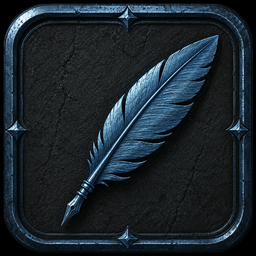
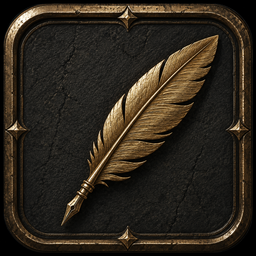
UI foundation: runtime factory gains optional R/B + nine-patch (validated)
The new custom UI needs bespoke textures and ornate scalable frames.
Bannerlord's official sprite path needs the Modding Kit to pre-compile a
.tpac (loose PNGs never render), so we build on CR's runtime sprite factory
instead (it assembles a Sprite from PNG bytes at load, no tooling). Spike
validated in game: a normal PNG renders true-colour, and a nine-patch frame
keeps crisp corners while its edges stretch over a tall panel.

- RuntimePortraitFactory: GetOrCreateCached/TryCreate take an optional
  correctRedBlue flag (the BGR-read swap is right for the JPG portraits but
  wrong for a normal PNG) and a NinePatch struct (fixed corner widths, so a
  frame stretches without distorting). Cache key includes both.
- CrRuntimeImageWidget: new CorrectRedBlue and NinePatch properties that
  thread through, rebuilding the sprite when any of path/flag/margins change.
- Quill: un-hacked. quill.png is now a NORMAL gold PNG and the widget sets
  CorrectRedBlue="false", replacing the pre-swapped-file workaround from
  6e26928 with the clean path.

This is the foundation the two-panel council/chat UI redesign builds on.

Changed region(s): [[0.0, 0.0, 1.0, 1.0], [0.2188, 0.125, 0.875, 0.875]]

diff --git a/CalradiaRemembers/Portraits/RuntimePortraitFactory.cs b/CalradiaRemembers/Portraits/RuntimePortraitFactory.cs
@@ -60,17 +60,49 @@ namespace CalradiaRemembers.Portraits
         }
 
         /// <summary>
-        ///   Cached load by path: builds a sprite once per file and reuses it, so N chat lines sharing one
-        ///   portrait hold ONE texture. A miss is cached as null so a missing file is not retried every line.
-        ///   The kept texture is intentionally not released (it stays available); a full feature would evict.
+        ///   The fixed-border widths of a nine-patch (nine-slice) sprite: the corners stay their native size
+        ///   while the edges and centre stretch, so a frame drawn far larger than its source keeps crisp
+        ///   corners. All-zero (the default) is an ordinary full-stretch sprite (the portrait case).
         /// </summary>
-        public static Sprite GetOrCreateCached(string fullPath)
+        public readonly struct NinePatch
+        {
+            public NinePatch(int left, int right, int top, int bottom)
+            {
+                Left = left;
+                Right = right;
+                Top = top;
+                Bottom = bottom;
+            }
+
+            public int Left { get; }
+            public int Right { get; }
+            public int Top { get; }
+            public int Bottom { get; }
+
+            public bool IsFlat => Left == 0 && Right == 0 && Top == 0 && Bottom == 0;
+
+            public override string ToString() => $"{Left},{Right},{Top},{Bottom}";
+        }
+
+        private static string KeyFor(string fullPath, bool correctRedBlue, NinePatch ninePatch)
+            => $"{fullPath}|{correctRedBlue}|{ninePatch}";
+
+        /// <summary>
+        ///   Cached load by path: builds a sprite once per (file, options) and reuses it, so N chat lines
+        ///   sharing one portrait hold ONE texture. A miss is cached as null so a missing file is not retried
+        ///   every line. <paramref name="correctRedBlue" /> applies the engine's BGR-read correction (needed
+        ///   for the JPG player portraits, but WRONG for a normal PNG that is already in the right order, so a
+        ///   UI sprite passes false). <paramref name="ninePatch" /> makes the sprite a stretchable frame.
+        /// </summary>
+        public static Sprite GetOrCreateCached(string fullPath, bool correctRedBlue = true, NinePatch ninePatch = default)
         {
             if (string.IsNullOrEmpty(fullPath)) return null;
-            if (Cache.TryGetValue(fullPath, out var cached)) return cached.sprite;
 
-            Sprite sprite = TryCreate(fullPath, out Sprite s, out EngTex tex, out _) ? s : null;
-            Cache[fullPath] = (sprite, tex?.Width ?? 0, tex?.Height ?? 0);
+            string key = KeyFor(fullPath, correctRedBlue, ninePatch);
+            if (Cache.TryGetValue(key, out var cached)) return cached.sprite;
+
+            Sprite sprite = TryCreate(fullPath, correctRedBlue, ninePatch, out Sprite s, out EngTex tex, out _) ? s : null;
+            Cache[key] = (sprite, tex?.Width ?? 0, tex?.Height ?? 0);
 
             return sprite;
         }
@@ -82,7 +114,7 @@ namespace CalradiaRemembers.Portraits
             height = 0;
             if (GetOrCreateCached(fullPath) == null) return false;
 
-            (Sprite _, int w, int h) = Cache[fullPath];
+            (Sprite _, int w, int h) = Cache[KeyFor(fullPath, true, default)];
             width = w;
             height = h;
 
@@ -93,7 +125,7 @@ namespace CalradiaRemembers.Portraits
         ///   Loads <paramref name="fullPath" /> and builds a full-texture sprite. Returns the engine texture so
         ///   the caller can release it. <paramref name="diag" /> narrates each step for the in-game log.
         /// </summary>
-        public static bool TryCreate(string fullPath, out Sprite sprite, out EngTex engineTexture, out string diag)
+        public static bool TryCreate(string fullPath, bool correctRedBlue, NinePatch ninePatch, out Sprite sprite, out EngTex engineTexture, out string diag)
         {
             sprite = null;
             engineTexture = null;
@@ -111,7 +143,9 @@ namespace CalradiaRemembers.Portraits
 
                 // The 2D sprite renderer samples RED and BLUE swapped relative to how the engine decodes an
                 // image (warm skin rendered blue), so colour-correct the bytes IN MEMORY first (no temp file).
-                byte[] corrected = SwapRedBlue(File.ReadAllBytes(fullPath)); // decoded, R/B swapped, PNG re-encoded
+                // Only when asked: this is right for the JPG player portraits but WRONG for a normal PNG that is
+                // already in the correct order (a UI sprite passes correctRedBlue:false and stays true to colour).
+                byte[] corrected = correctRedBlue ? SwapRedBlue(File.ReadAllBytes(fullPath)) : File.ReadAllBytes(fullPath);
                 engineTexture = EngTex.CreateFromMemory(corrected);
 
                 if (engineTexture == null)
@@ -162,7 +196,9 @@ namespace CalradiaRemembers.Portraits
                 SheetHeightField?.SetValue(part, h);
                 part.UpdateInitValues();
 
-                var nine = new SpriteNinePatchParameters(0, 0, 0, 0);
+                // Nine-patch: a flat sprite keeps the full-stretch behaviour (0,0,0,0); a frame passes its fixed
+                // corner widths so the borders stay crisp while the middle stretches to the widget's size.
+                var nine = new SpriteNinePatchParameters(ninePatch.Left, ninePatch.Right, ninePatch.Top, ninePatch.Bottom);
                 sprite = new SpriteGeneric(spriteName, part, nine);
 
                 return true;

diff --git a/CalradiaRemembers/Portraits/CrRuntimeImageWidget.cs b/CalradiaRemembers/Portraits/CrRuntimeImageWidget.cs
@@ -17,6 +17,8 @@ namespace CalradiaRemembers.Portraits
     public class CrRuntimeImageWidget : Widget
     {
         private string _imagePath = "";
+        private bool _correctRedBlue = true;
+        private string _ninePatch = "";
 
         public CrRuntimeImageWidget(UIContext context) : base(context) { }
 
@@ -28,8 +30,56 @@ namespace CalradiaRemembers.Portraits
             {
                 if (_imagePath == value) return;
                 _imagePath = value;
-                Sprite = string.IsNullOrEmpty(value) ? null : RuntimePortraitFactory.GetOrCreateCached(value);
+                Rebuild();
             }
+        }
+
+        /// <summary>
+        ///   Whether to apply the engine's BGR-read colour correction (see <see cref="RuntimePortraitFactory" />).
+        ///   True (default) for the JPG player portraits; a UI sprite from a normal PNG sets it false so its gold
+        ///   is not inverted to blue.
+        /// </summary>
+        [Editor(false)]
+        public bool CorrectRedBlue
+        {
+            get => _correctRedBlue;
+            set
+            {
+                if (_correctRedBlue == value) return;
+                _correctRedBlue = value;
+                Rebuild();
+            }
+        }
+
+        /// <summary>Fixed nine-patch corner widths as "left,right,top,bottom"; empty is a flat, full-stretch sprite.</summary>
+        [Editor(false)]
+        public string NinePatch
+        {
+            get => _ninePatch;
+            set
+            {
+                if (_ninePatch == value) return;
+                _ninePatch = value;
+                Rebuild();
+            }
+        }
+
+        private void Rebuild()
+            => Sprite = string.IsNullOrEmpty(_imagePath)
+                ? null
+                : RuntimePortraitFactory.GetOrCreateCached(_imagePath, _correctRedBlue, ParseNinePatch(_ninePatch));
+
+        private static RuntimePortraitFactory.NinePatch ParseNinePatch(string s)
+        {
+            if (string.IsNullOrWhiteSpace(s)) return default;
+
+            string[] p = s.Split(',');
+            if (p.Length == 4
+                && int.TryParse(p[0].Trim(), out int l) && int.TryParse(p[1].Trim(), out int r)
+                && int.TryParse(p[2].Trim(), out int t) && int.TryParse(p[3].Trim(), out int b))
+                return new RuntimePortraitFactory.NinePatch(l, r, t, b);
+
+            return default;
         }
     }
 }

diff --git a/CalradiaRemembers/ModCheats.Portraits.cs b/CalradiaRemembers/ModCheats.Portraits.cs
@@ -30,7 +30,7 @@ namespace CalradiaRemembers
         {
             string path = ResolvePortraitPath(args, 0);
 
-            if (!RuntimePortraitFactory.TryCreate(path, out Sprite sprite, out EngTex texture, out string diag))
+            if (!RuntimePortraitFactory.TryCreate(path, true, default, out Sprite sprite, out EngTex texture, out string diag))
                 return $"Portrait spike FAILED: {diag}\nDrop a PNG/JPG at {path}, or pass a full path.";
 
             PortraitSpikeManager.Open(sprite, texture, diag);
@@ -55,7 +55,7 @@ namespace CalradiaRemembers
 
             for (var i = 0; i < count; i++)
             {
-                if (!RuntimePortraitFactory.TryCreate(path, out _, out EngTex texture, out string diag))
+                if (!RuntimePortraitFactory.TryCreate(path, true, default, out _, out EngTex texture, out string diag))
                 {
                     lastDiag = diag;
 
